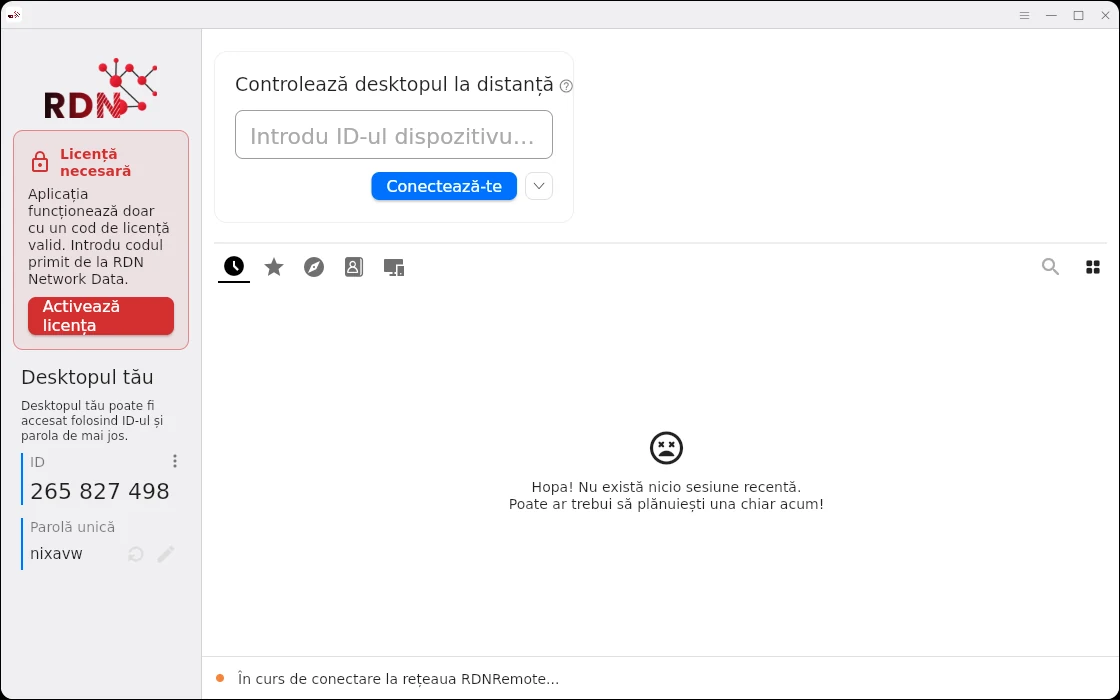
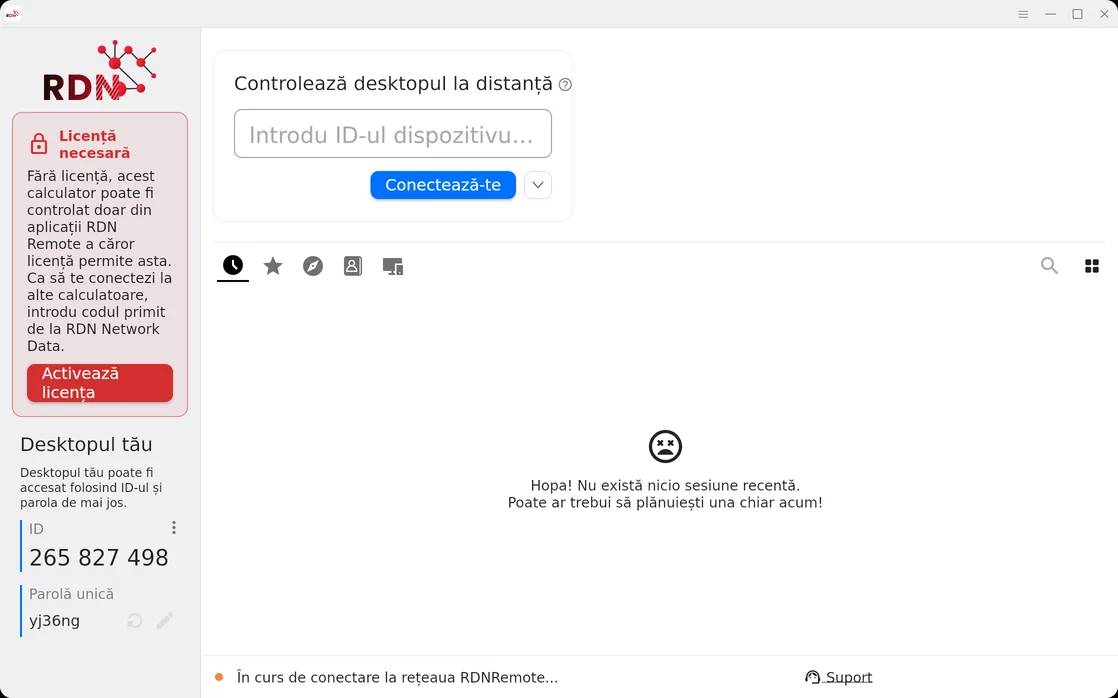
Site: app screenshots from 1.5.0-9 at double resolution, right size per screen
- The twelve app screenshots were retaken from the 1.5.0-9 build at 2x
  (img/app-*@2x.webp, 2236 x 1396), so they show the current license
  banner and the Support link, and stay sharp on retina, phones and 4K.
  The 1x files are regenerated from them (?v=2 so browsers drop the old
  copies); on the English main screen the license banner is left out,
  as before.
- Screenshots and 3D images list both widths with the size they are
  shown at, so each screen loads the smallest file that is still sharp:
  phones up to 360px and ordinary monitors get the 1x files, retina and
  larger phones the 2x ones, 4K at 100-125% always the 2x ones.
- fut.css?v=14 (3D image on the portal card 250px on phones).

Claude-Session: https://claude.ai/code/session_0156smkejfBypJLwZDVGmGmd

diff --git a/server/web/en/index.html b/server/web/en/index.html
@@ -23,7 +23,7 @@
 <link rel="icon" href="/favicon.ico" sizes="any">
 <link rel="icon" type="image/png" href="/assets/favicon.png">
 <link rel="stylesheet" href="/fonts.css?v=1">
-<link rel="stylesheet" href="/fut.css?v=13">
+<link rel="stylesheet" href="/fut.css?v=14">
 <link rel="stylesheet" href="/footer.css">
 <link rel="apple-touch-icon" href="/assets/apple-touch-icon.png">
 <script type="application/ld+json">
@@ -210,8 +210,8 @@
           <p class="cta-meta" id="cta-meta"></p>
         </div>
         <div class="stage">
-          <picture><source media="(min-width: 2800px) and (min-height: 1500px)" srcset="/img/3d-nodes@2x.webp"><img class="orb" src="/img/3d-nodes.webp" srcset="/img/3d-nodes@2x.webp 2x" width="760" height="714" alt=""></picture>
-          <div class="screen"><picture><source media="(prefers-color-scheme: light)" srcset="/img/app-en-main-light.webp"><img fetchpriority="high" src="/img/app-en-main-dark.webp" width="1118" height="698" alt="RDN Remote remote desktop software: main window with the device ID, one-time password and the connect field"></picture></div>
+          <picture><source media="(min-width: 2800px) and (min-height: 1500px)" srcset="/img/3d-nodes@2x.webp"><img class="orb" src="/img/3d-nodes.webp" srcset="/img/3d-nodes.webp 760w, /img/3d-nodes@2x.webp 1520w" sizes="(max-width: 600px) 230px, (max-width: 900px) 300px, (max-width: 1100px) 380px, 470px" width="760" height="714" alt=""></picture>
+          <div class="screen"><picture><source media="(prefers-color-scheme: light) and (min-width: 2800px) and (min-height: 1500px)" srcset="/img/app-en-main-light@2x.webp"><source media="(prefers-color-scheme: light)" srcset="/img/app-en-main-light.webp?v=2 1118w, /img/app-en-main-light@2x.webp 2236w" sizes="(max-width: 900px) 88vw, (max-width: 1100px) 480px, 560px"><source media="(min-width: 2800px) and (min-height: 1500px)" srcset="/img/app-en-main-dark@2x.webp"><img fetchpriority="high" src="/img/app-en-main-dark.webp?v=2" srcset="/img/app-en-main-dark.webp?v=2 1118w, /img/app-en-main-dark@2x.webp 2236w" sizes="(max-width: 900px) 88vw, (max-width: 1100px) 480px, 560px" width="1118" height="698" alt="RDN Remote remote desktop software: main window with the device ID, one-time password and the connect field"></picture></div>
           <div class="chip c1"><i></i><div><b>End-to-end encryption</b><span>the server never sees the screen</span></div></div>
           <div class="chip c2"><i></i><div><b>Hosted in Romania, EU</b><span>RDN Network Data</span></div></div>
         </div>
@@ -238,10 +238,10 @@
         <h2>This is the <span class="grad">RDN Remote</span> remote desktop app.</h2>
       </div>
       <div class="showcase">
-        <figure class="shot big"><picture><source media="(prefers-color-scheme: light)" srcset="/img/app-en-main-light.webp"><img loading="lazy" decoding="async" src="/img/app-en-main-dark.webp" width="1118" height="698" alt="RDN Remote remote access software: main screen with the device ID and one-time password"></picture></figure>
+        <figure class="shot big"><picture><source media="(prefers-color-scheme: light) and (min-width: 2800px) and (min-height: 1500px)" srcset="/img/app-en-main-light@2x.webp"><source media="(prefers-color-scheme: light)" srcset="/img/app-en-main-light.webp?v=2 1118w, /img/app-en-main-light@2x.webp 2236w" sizes="(max-width: 600px) calc(100vw - 32px), (max-width: 900px) calc(100vw - 40px), (min-width: 1540px) 862px, 57vw"><source media="(min-width: 2800px) and (min-height: 1500px)" srcset="/img/app-en-main-dark@2x.webp"><img loading="lazy" decoding="async" src="/img/app-en-main-dark.webp?v=2" srcset="/img/app-en-main-dark.webp?v=2 1118w, /img/app-en-main-dark@2x.webp 2236w" sizes="(max-width: 600px) calc(100vw - 32px), (max-width: 900px) calc(100vw - 40px), (min-width: 1540px) 862px, 57vw" width="1118" height="698" alt="RDN Remote remote access software: main screen with the device ID and one-time password"></picture></figure>
         <div class="side">
-        <figure><div class="shot r"><picture><source media="(prefers-color-scheme: light)" srcset="/img/app-en-sec-light.webp"><img loading="lazy" decoding="async" src="/img/app-en-sec-dark.webp" width="1118" height="698" alt="RDN Remote remote desktop: permissions for incoming remote connections"></picture></div><figcaption><b>01</b>Choose what the person connecting can do: keyboard and mouse, files, terminal, recording.</figcaption></figure>
-        <figure><div class="shot r"><picture><source media="(prefers-color-scheme: light)" srcset="/img/app-en-gen-light.webp"><img loading="lazy" decoding="async" src="/img/app-en-gen-dark.webp" width="1118" height="698" alt="RDN Remote settings: theme and app language"></picture></div><figcaption><b>02</b>Switch the app to English or Romanian, light or dark, from Settings.</figcaption></figure>
+        <figure><div class="shot r"><picture><source media="(prefers-color-scheme: light) and (min-width: 2800px) and (min-height: 1500px)" srcset="/img/app-en-sec-light@2x.webp"><source media="(prefers-color-scheme: light)" srcset="/img/app-en-sec-light.webp?v=2 1118w, /img/app-en-sec-light@2x.webp 2236w" sizes="(max-width: 600px) calc(100vw - 32px), (max-width: 900px) calc(100vw - 40px), (min-width: 1540px) 638px, 43vw"><source media="(min-width: 2800px) and (min-height: 1500px)" srcset="/img/app-en-sec-dark@2x.webp"><img loading="lazy" decoding="async" src="/img/app-en-sec-dark.webp?v=2" srcset="/img/app-en-sec-dark.webp?v=2 1118w, /img/app-en-sec-dark@2x.webp 2236w" sizes="(max-width: 600px) calc(100vw - 32px), (max-width: 900px) calc(100vw - 40px), (min-width: 1540px) 638px, 43vw" width="1118" height="698" alt="RDN Remote remote desktop: permissions for incoming remote connections"></picture></div><figcaption><b>01</b>Choose what the person connecting can do: keyboard and mouse, files, terminal, recording.</figcaption></figure>
+        <figure><div class="shot r"><picture><source media="(prefers-color-scheme: light) and (min-width: 2800px) and (min-height: 1500px)" srcset="/img/app-en-gen-light@2x.webp"><source media="(prefers-color-scheme: light)" srcset="/img/app-en-gen-light.webp?v=2 1118w, /img/app-en-gen-light@2x.webp 2236w" sizes="(max-width: 600px) calc(100vw - 32px), (max-width: 900px) calc(100vw - 40px), (min-width: 1540px) 638px, 43vw"><source media="(min-width: 2800px) and (min-height: 1500px)" srcset="/img/app-en-gen-dark@2x.webp"><img loading="lazy" decoding="async" src="/img/app-en-gen-dark.webp?v=2" srcset="/img/app-en-gen-dark.webp?v=2 1118w, /img/app-en-gen-dark@2x.webp 2236w" sizes="(max-width: 600px) calc(100vw - 32px), (max-width: 900px) calc(100vw - 40px), (min-width: 1540px) 638px, 43vw" width="1118" height="698" alt="RDN Remote settings: theme and app language"></picture></div><figcaption><b>02</b>Switch the app to English or Romanian, light or dark, from Settings.</figcaption></figure>
         </div>
         <ul class="shot-notes" aria-label="At a glance"><li class="glass-card"><span class="ico"><svg viewBox="0 0 24 24" fill="none" stroke="currentColor" stroke-width="2" stroke-linecap="round" stroke-linejoin="round"><rect x="3" y="5" width="18" height="14" rx="2"/><circle cx="9" cy="12" r="2"/><path d="M14 10h4M14 14h4"/></svg></span><h3>ID and one-time password</h3><p>Give them to whoever is helping you. The one-time password changes when you close the app.</p></li><li class="glass-card"><span class="ico"><svg viewBox="0 0 24 24" fill="none" stroke="currentColor" stroke-width="2" stroke-linecap="round" stroke-linejoin="round"><path d="M15 3h4a2 2 0 0 1 2 2v14a2 2 0 0 1-2 2h-4"/><path d="m10 17 5-5-5-5M15 12H3"/></svg></span><h3>Connected in seconds</h3><p>Type the computer's ID, press Connect and enter the password.</p></li><li class="glass-card"><span class="ico"><svg viewBox="0 0 24 24" fill="none" stroke="currentColor" stroke-width="2" stroke-linecap="round" stroke-linejoin="round"><rect x="4" y="11" width="16" height="10" rx="2"/><path d="M8 11V7a4 4 0 0 1 8 0v4"/></svg></span><h3>Encrypted connection</h3><p>The screen, keystrokes and files are encrypted between the two devices.</p></li><li class="glass-card"><span class="ico"><svg viewBox="0 0 24 24" fill="none" stroke="currentColor" stroke-width="2" stroke-linecap="round" stroke-linejoin="round"><path d="M21 12a9 9 0 1 1-3-6.7L21 8"/><path d="M21 3v5h-5"/></svg></span><h3>Automatic updates</h3><p>The app updates itself on Windows and macOS, from the versions we publish.</p></li></ul>
       </div>
@@ -288,7 +288,7 @@
 
   <section id="alternativa">
     <div class="wrap alt-grid">
-      <div class="alt-art"><picture><source media="(min-width: 2800px) and (min-height: 1500px)" srcset="/img/3d-globe@2x.webp"><img src="/img/3d-globe.webp" srcset="/img/3d-globe@2x.webp 2x" width="759" height="760" alt="" aria-hidden="true" loading="lazy" decoding="async"></picture></div>
+      <div class="alt-art"><picture><source media="(min-width: 2800px) and (min-height: 1500px)" srcset="/img/3d-globe@2x.webp"><img src="/img/3d-globe.webp" srcset="/img/3d-globe.webp 759w, /img/3d-globe@2x.webp 1518w" sizes="(max-width: 600px) 240px, (max-width: 900px) 300px, 440px" width="759" height="760" alt="" aria-hidden="true" loading="lazy" decoding="async"></picture></div>
       <div>
         <div class="head" style="margin-bottom:20px">
           <span class="tag">TeamViewer and AnyDesk alternative</span>
@@ -383,7 +383,7 @@
           </dl>
           <a class="btn" href="/portal/">Open the portal</a>
         </div>
-        <div class="art"><picture><source media="(min-width: 2800px) and (min-height: 1500px)" srcset="/img/3d-nodes@2x.webp"><img src="/img/3d-nodes.webp" srcset="/img/3d-nodes@2x.webp 2x" width="760" height="714" alt="" aria-hidden="true" loading="lazy" decoding="async"></picture></div>
+        <div class="art"><picture><source media="(min-width: 2800px) and (min-height: 1500px)" srcset="/img/3d-nodes@2x.webp"><img src="/img/3d-nodes.webp" srcset="/img/3d-nodes.webp 760w, /img/3d-nodes@2x.webp 1520w" sizes="(max-width: 600px) 250px, 520px" width="760" height="714" alt="" aria-hidden="true" loading="lazy" decoding="async"></picture></div>
       </div>
 
       <div class="about">
@@ -403,7 +403,7 @@
             <h2>Download <span class="grad">RDN Remote.</span></h2>
             <p class="lead" id="dl-sub">Choose your operating system.</p>
           </div>
-          <div class="dl-art"><picture><source media="(min-width: 2800px) and (min-height: 1500px)" srcset="/img/3d-server@2x.webp"><img src="/img/3d-server.webp" srcset="/img/3d-server@2x.webp 2x" width="760" height="589" alt="" aria-hidden="true" loading="lazy" decoding="async"></picture></div>
+          <div class="dl-art"><picture><source media="(min-width: 2800px) and (min-height: 1500px)" srcset="/img/3d-server@2x.webp"><img src="/img/3d-server.webp" srcset="/img/3d-server.webp 760w, /img/3d-server@2x.webp 1520w" sizes="(max-width: 600px) 240px, (max-width: 900px) 320px, 460px" width="760" height="589" alt="" aria-hidden="true" loading="lazy" decoding="async"></picture></div>
         </div>
         <div>
           <div class="os-grid" id="grid"></div>
@@ -418,7 +418,7 @@
   <section id="siguranta">
     <div class="wrap">
       <div class="sec-grid">
-        <div class="sec-art"><picture><source media="(min-width: 2800px) and (min-height: 1500px)" srcset="/img/3d-lock@2x.webp"><img src="/img/3d-lock.webp" srcset="/img/3d-lock@2x.webp 2x" width="760" height="760" alt="" aria-hidden="true" loading="lazy" decoding="async"></picture></div>
+        <div class="sec-art"><picture><source media="(min-width: 2800px) and (min-height: 1500px)" srcset="/img/3d-lock@2x.webp"><img src="/img/3d-lock.webp" srcset="/img/3d-lock.webp 760w, /img/3d-lock@2x.webp 1520w" sizes="(max-width: 600px) 240px, (max-width: 900px) 320px, 480px" width="760" height="760" alt="" aria-hidden="true" loading="lazy" decoding="async"></picture></div>
         <div>
           <div class="head" style="margin-bottom:0">
             <span class="tag">Security</span>

diff --git a/server/web/index.html b/server/web/index.html
@@ -22,7 +22,7 @@
 <link rel="icon" href="/favicon.ico" sizes="any">
 <link rel="icon" type="image/png" href="/assets/favicon.png">
 <link rel="stylesheet" href="/fonts.css?v=1">
-<link rel="stylesheet" href="/fut.css?v=13">
+<link rel="stylesheet" href="/fut.css?v=14">
 <link rel="stylesheet" href="/footer.css">
 <link rel="apple-touch-icon" href="/assets/apple-touch-icon.png">
 <script type="application/ld+json">
@@ -101,8 +101,8 @@
           <p class="cta-meta" id="cta-meta"></p>
         </div>
         <div class="stage">
-          <picture><source media="(min-width: 2800px) and (min-height: 1500px)" srcset="/img/3d-nodes@2x.webp"><img class="orb" src="/img/3d-nodes.webp" srcset="/img/3d-nodes@2x.webp 2x" width="760" height="714" alt=""></picture>
-          <div class="screen"><picture><source media="(prefers-color-scheme: light)" srcset="/img/app-main-light.webp"><img fetchpriority="high" src="/img/app-main-dark.webp" width="1118" height="698" alt="Fereastra principală a aplicației RDN Remote: ID-ul dispozitivului, parola unică și câmpul pentru conectare"></picture></div>
+          <picture><source media="(min-width: 2800px) and (min-height: 1500px)" srcset="/img/3d-nodes@2x.webp"><img class="orb" src="/img/3d-nodes.webp" srcset="/img/3d-nodes.webp 760w, /img/3d-nodes@2x.webp 1520w" sizes="(max-width: 600px) 230px, (max-width: 900px) 300px, (max-width: 1100px) 380px, 470px" width="760" height="714" alt=""></picture>
+          <div class="screen"><picture><source media="(prefers-color-scheme: light) and (min-width: 2800px) and (min-height: 1500px)" srcset="/img/app-main-light@2x.webp"><source media="(prefers-color-scheme: light)" srcset="/img/app-main-light.webp?v=2 1118w, /img/app-main-light@2x.webp 2236w" sizes="(max-width: 900px) 88vw, (max-width: 1100px) 480px, 560px"><source media="(min-width: 2800px) and (min-height: 1500px)" srcset="/img/app-main-dark@2x.webp"><img fetchpriority="high" src="/img/app-main-dark.webp?v=2" srcset="/img/app-main-dark.webp?v=2 1118w, /img/app-main-dark@2x.webp 2236w" sizes="(max-width: 900px) 88vw, (max-width: 1100px) 480px, 560px" width="1118" height="698" alt="Fereastra principală a aplicației RDN Remote: ID-ul dispozitivului, parola unică și câmpul pentru conectare"></picture></div>
           <div class="chip c1"><i></i><div><b>Criptare end-to-end</b><span>serverul nu vede imaginea</span></div></div>
           <div class="chip c2"><i></i><div><b>Server în România</b><span>RDN Network Data</span></div></div>
         </div>
@@ -129,10 +129,10 @@
         <h2>Așa arată programul de remote desktop <span class="grad">RDN Remote.</span></h2>
       </div>
       <div class="showcase">
-        <figure class="shot big"><picture><source media="(prefers-color-scheme: light)" srcset="/img/app-main-light.webp"><img loading="lazy" decoding="async" src="/img/app-main-dark.webp" width="1118" height="698" alt="Program de control la distanță RDN Remote: ecranul principal cu ID-ul dispozitivului și parola unică"></picture></figure>
+        <figure class="shot big"><picture><source media="(prefers-color-scheme: light) and (min-width: 2800px) and (min-height: 1500px)" srcset="/img/app-main-light@2x.webp"><source media="(prefers-color-scheme: light)" srcset="/img/app-main-light.webp?v=2 1118w, /img/app-main-light@2x.webp 2236w" sizes="(max-width: 600px) calc(100vw - 32px), (max-width: 900px) calc(100vw - 40px), (min-width: 1540px) 862px, 57vw"><source media="(min-width: 2800px) and (min-height: 1500px)" srcset="/img/app-main-dark@2x.webp"><img loading="lazy" decoding="async" src="/img/app-main-dark.webp?v=2" srcset="/img/app-main-dark.webp?v=2 1118w, /img/app-main-dark@2x.webp 2236w" sizes="(max-width: 600px) calc(100vw - 32px), (max-width: 900px) calc(100vw - 40px), (min-width: 1540px) 862px, 57vw" width="1118" height="698" alt="Program de control la distanță RDN Remote: ecranul principal cu ID-ul dispozitivului și parola unică"></picture></figure>
         <div class="side">
-        <figure><div class="shot r"><picture><source media="(prefers-color-scheme: light)" srcset="/img/app-sec-light.webp"><img loading="lazy" decoding="async" src="/img/app-sec-dark.webp" width="1118" height="698" alt="Remote desktop RDN Remote: permisiunile pentru conexiunile la distanță"></picture></div><figcaption><b>01</b>Alegi ce poate face cel care se conectează: tastatură și mouse, fișiere, terminal, înregistrare.</figcaption></figure>
-        <figure><div class="shot r"><picture><source media="(prefers-color-scheme: light)" srcset="/img/app-lic-light.webp"><img loading="lazy" decoding="async" src="/img/app-lic-dark.webp" width="1118" height="698" alt="Activarea licenței în RDN Remote"></picture></div><figcaption><b>02</b>Introduci codul de licență la prima pornire și poți începe imediat.</figcaption></figure>
+        <figure><div class="shot r"><picture><source media="(prefers-color-scheme: light) and (min-width: 2800px) and (min-height: 1500px)" srcset="/img/app-sec-light@2x.webp"><source media="(prefers-color-scheme: light)" srcset="/img/app-sec-light.webp?v=2 1118w, /img/app-sec-light@2x.webp 2236w" sizes="(max-width: 600px) calc(100vw - 32px), (max-width: 900px) calc(100vw - 40px), (min-width: 1540px) 638px, 43vw"><source media="(min-width: 2800px) and (min-height: 1500px)" srcset="/img/app-sec-dark@2x.webp"><img loading="lazy" decoding="async" src="/img/app-sec-dark.webp?v=2" srcset="/img/app-sec-dark.webp?v=2 1118w, /img/app-sec-dark@2x.webp 2236w" sizes="(max-width: 600px) calc(100vw - 32px), (max-width: 900px) calc(100vw - 40px), (min-width: 1540px) 638px, 43vw" width="1118" height="698" alt="Remote desktop RDN Remote: permisiunile pentru conexiunile la distanță"></picture></div><figcaption><b>01</b>Alegi ce poate face cel care se conectează: tastatură și mouse, fișiere, terminal, înregistrare.</figcaption></figure>
+        <figure><div class="shot r"><picture><source media="(prefers-color-scheme: light) and (min-width: 2800px) and (min-height: 1500px)" srcset="/img/app-lic-light@2x.webp"><source media="(prefers-color-scheme: light)" srcset="/img/app-lic-light.webp?v=2 1118w, /img/app-lic-light@2x.webp 2236w" sizes="(max-width: 600px) calc(100vw - 32px), (max-width: 900px) calc(100vw - 40px), (min-width: 1540px) 638px, 43vw"><source media="(min-width: 2800px) and (min-height: 1500px)" srcset="/img/app-lic-dark@2x.webp"><img loading="lazy" decoding="async" src="/img/app-lic-dark.webp?v=2" srcset="/img/app-lic-dark.webp?v=2 1118w, /img/app-lic-dark@2x.webp 2236w" sizes="(max-width: 600px) calc(100vw - 32px), (max-width: 900px) calc(100vw - 40px), (min-width: 1540px) 638px, 43vw" width="1118" height="698" alt="Activarea licenței în RDN Remote"></picture></div><figcaption><b>02</b>Introduci codul de licență la prima pornire și poți începe imediat.</figcaption></figure>
         </div>
         <ul class="shot-notes" aria-label="Pe scurt"><li class="glass-card"><span class="ico"><svg viewBox="0 0 24 24" fill="none" stroke="currentColor" stroke-width="2" stroke-linecap="round" stroke-linejoin="round"><rect x="3" y="5" width="18" height="14" rx="2"/><circle cx="9" cy="12" r="2"/><path d="M14 10h4M14 14h4"/></svg></span><h3>ID și parolă unică</h3><p>Le dai celui care te ajută. Parola unică se schimbă când închizi aplicația.</p></li><li class="glass-card"><span class="ico"><svg viewBox="0 0 24 24" fill="none" stroke="currentColor" stroke-width="2" stroke-linecap="round" stroke-linejoin="round"><path d="M15 3h4a2 2 0 0 1 2 2v14a2 2 0 0 1-2 2h-4"/><path d="m10 17 5-5-5-5M15 12H3"/></svg></span><h3>Conectare în câteva secunde</h3><p>Scrii ID-ul calculatorului, apeși Conectează-te și introduci parola.</p></li><li class="glass-card"><span class="ico"><svg viewBox="0 0 24 24" fill="none" stroke="currentColor" stroke-width="2" stroke-linecap="round" stroke-linejoin="round"><rect x="4" y="11" width="16" height="10" rx="2"/><path d="M8 11V7a4 4 0 0 1 8 0v4"/></svg></span><h3>Conexiune criptată</h3><p>Imaginea, tastatura și fișierele sunt criptate între cele două dispozitive.</p></li><li class="glass-card"><span class="ico"><svg viewBox="0 0 24 24" fill="none" stroke="currentColor" stroke-width="2" stroke-linecap="round" stroke-linejoin="round"><path d="M21 12a9 9 0 1 1-3-6.7L21 8"/><path d="M21 3v5h-5"/></svg></span><h3>Actualizări automate</h3><p>Aplicația se actualizează singură pe Windows și macOS, din versiunile publicate de noi.</p></li></ul>
       </div>
@@ -179,7 +179,7 @@
 
   <section id="alternativa">
     <div class="wrap alt-grid">
-      <div class="alt-art"><picture><source media="(min-width: 2800px) and (min-height: 1500px)" srcset="/img/3d-globe@2x.webp"><img src="/img/3d-globe.webp" srcset="/img/3d-globe@2x.webp 2x" width="759" height="760" alt="" aria-hidden="true" loading="lazy" decoding="async"></picture></div>
+      <div class="alt-art"><picture><source media="(min-width: 2800px) and (min-height: 1500px)" srcset="/img/3d-globe@2x.webp"><img src="/img/3d-globe.webp" srcset="/img/3d-globe.webp 759w, /img/3d-globe@2x.webp 1518w" sizes="(max-width: 600px) 240px, (max-width: 900px) 300px, 440px" width="759" height="760" alt="" aria-hidden="true" loading="lazy" decoding="async"></picture></div>
       <div>
         <div class="head" style="margin-bottom:20px">
           <span class="tag">Alternativă la TeamViewer și AnyDesk</span>
@@ -274,7 +274,7 @@
           </dl>
           <a class="btn" href="/portal/">Intră în portal</a>
         </div>
-        <div class="art"><picture><source media="(min-width: 2800px) and (min-height: 1500px)" srcset="/img/3d-nodes@2x.webp"><img src="/img/3d-nodes.webp" srcset="/img/3d-nodes@2x.webp 2x" width="760" height="714" alt="" aria-hidden="true" loading="lazy" decoding="async"></picture></div>
+        <div class="art"><picture><source media="(min-width: 2800px) and (min-height: 1500px)" srcset="/img/3d-nodes@2x.webp"><img src="/img/3d-nodes.webp" srcset="/img/3d-nodes.webp 760w, /img/3d-nodes@2x.webp 1520w" sizes="(max-width: 600px) 250px, 520px" width="760" height="714" alt="" aria-hidden="true" loading="lazy" decoding="async"></picture></div>
       </div>
 
       <div class="about">
@@ -294,7 +294,7 @@
             <h2>Descarcă <span class="grad">RDN Remote.</span></h2>
             <p class="lead" id="dl-sub">Alege sistemul tău de operare.</p>
           </div>
-          <div class="dl-art"><picture><source media="(min-width: 2800px) and (min-height: 1500px)" srcset="/img/3d-server@2x.webp"><img src="/img/3d-server.webp" srcset="/img/3d-server@2x.webp 2x" width="760" height="589" alt="" aria-hidden="true" loading="lazy" decoding="async"></picture></div>
+          <div class="dl-art"><picture><source media="(min-width: 2800px) and (min-height: 1500px)" srcset="/img/3d-server@2x.webp"><img src="/img/3d-server.webp" srcset="/img/3d-server.webp 760w, /img/3d-server@2x.webp 1520w" sizes="(max-width: 600px) 240px, (max-width: 900px) 320px, 460px" width="760" height="589" alt="" aria-hidden="true" loading="lazy" decoding="async"></picture></div>
         </div>
         <div>
           <div class="os-grid" id="grid"></div>
@@ -309,7 +309,7 @@
   <section id="siguranta">
     <div class="wrap">
       <div class="sec-grid">
-        <div class="sec-art"><picture><source media="(min-width: 2800px) and (min-height: 1500px)" srcset="/img/3d-lock@2x.webp"><img src="/img/3d-lock.webp" srcset="/img/3d-lock@2x.webp 2x" width="760" height="760" alt="" aria-hidden="true" loading="lazy" decoding="async"></picture></div>
+        <div class="sec-art"><picture><source media="(min-width: 2800px) and (min-height: 1500px)" srcset="/img/3d-lock@2x.webp"><img src="/img/3d-lock.webp" srcset="/img/3d-lock.webp 760w, /img/3d-lock@2x.webp 1520w" sizes="(max-width: 600px) 240px, (max-width: 900px) 320px, 480px" width="760" height="760" alt="" aria-hidden="true" loading="lazy" decoding="async"></picture></div>
         <div>
           <div class="head" style="margin-bottom:0">
             <span class="tag">Siguranță</span>

diff --git a/server/web/fut.css b/server/web/fut.css
@@ -515,7 +515,7 @@ section { padding: 24px 0; }
 
 /* Telefoane: cifrele pe un singur rând pe ecranele înguste, imaginile 3D mai mici ca să nu lungească pagina */
 @media (max-width: 374px) { .stats { grid-template-columns: 1fr; } }
-@media (max-width: 600px) { .alt-art, .dl-art, .sec-art { max-width: 240px; } .portal .art img { max-width: 260px; } }
+@media (max-width: 600px) { .alt-art, .dl-art, .sec-art { max-width: 240px; } .portal .art img { max-width: 250px; } }
 
 /* Monitoare 4K la scalare 100-125%: pagina e mărită ca să arate ca pe un ecran Full HD */
 @media (min-width: 2800px) and (min-height: 1500px) { body { zoom: 1.5; } html { scroll-padding-top: 120px; } }

diff --git a/server/web/date-structurate/index.html b/server/web/date-structurate/index.html
@@ -14,7 +14,7 @@
 <meta name="theme-color" content="#0a0708" media="(prefers-color-scheme: dark)">
 <meta name="theme-color" content="#f4f4f5" media="(prefers-color-scheme: light)">
 <link rel="stylesheet" href="/fonts.css?v=1">
-<link rel="stylesheet" href="/fut.css?v=13">
+<link rel="stylesheet" href="/fut.css?v=14">
 <link rel="stylesheet" href="/footer.css">
 <style>
 .doc { max-width: 1540px; margin-inline: auto; padding-inline: 20px; }

diff --git a/server/web/en/privacy.html b/server/web/en/privacy.html
@@ -14,7 +14,7 @@
 <meta name="theme-color" content="#0a0708" media="(prefers-color-scheme: dark)">
 <meta name="theme-color" content="#f4f4f5" media="(prefers-color-scheme: light)">
 <link rel="stylesheet" href="/fonts.css?v=1">
-<link rel="stylesheet" href="/fut.css?v=13">
+<link rel="stylesheet" href="/fut.css?v=14">
 <link rel="stylesheet" href="/footer.css">
 <style>
 .doc { max-width: 1540px; margin-inline: auto; padding-inline: 20px; }

diff --git a/server/web/en/source/index.html b/server/web/en/source/index.html
@@ -14,7 +14,7 @@
 <meta name="theme-color" content="#0a0708" media="(prefers-color-scheme: dark)">
 <meta name="theme-color" content="#f4f4f5" media="(prefers-color-scheme: light)">
 <link rel="stylesheet" href="/fonts.css?v=1">
-<link rel="stylesheet" href="/fut.css?v=13">
+<link rel="stylesheet" href="/fut.css?v=14">
 <link rel="stylesheet" href="/footer.css">
 <style>
 .doc { max-width: 1540px; margin-inline: auto; padding-inline: 20px; }

diff --git a/server/web/en/structured-data/index.html b/server/web/en/structured-data/index.html
@@ -14,7 +14,7 @@
 <meta name="theme-color" content="#0a0708" media="(prefers-color-scheme: dark)">
 <meta name="theme-color" content="#f4f4f5" media="(prefers-color-scheme: light)">
 <link rel="stylesheet" href="/fonts.css?v=1">
-<link rel="stylesheet" href="/fut.css?v=13">
+<link rel="stylesheet" href="/fut.css?v=14">
 <link rel="stylesheet" href="/footer.css">
 <style>
 .doc { max-width: 1540px; margin-inline: auto; padding-inline: 20px; }

diff --git a/server/web/sursa/index.html b/server/web/sursa/index.html
@@ -14,7 +14,7 @@
 <meta name="theme-color" content="#0a0708" media="(prefers-color-scheme: dark)">
 <meta name="theme-color" content="#f4f4f5" media="(prefers-color-scheme: light)">
 <link rel="stylesheet" href="/fonts.css?v=1">
-<link rel="stylesheet" href="/fut.css?v=13">
+<link rel="stylesheet" href="/fut.css?v=14">
 <link rel="stylesheet" href="/footer.css">
 <style>
 .doc { max-width: 1540px; margin-inline: auto; padding-inline: 20px; }

diff --git a/server/web/confidentialitate.html b/server/web/confidentialitate.html
@@ -14,7 +14,7 @@
 <meta name="theme-color" content="#0a0708" media="(prefers-color-scheme: dark)">
 <meta name="theme-color" content="#f4f4f5" media="(prefers-color-scheme: light)">
 <link rel="stylesheet" href="/fonts.css?v=1">
-<link rel="stylesheet" href="/fut.css?v=13">
+<link rel="stylesheet" href="/fut.css?v=14">
 <link rel="stylesheet" href="footer.css">
 <style>
 .doc { max-width: 1540px; margin-inline: auto; padding-inline: 20px; }
